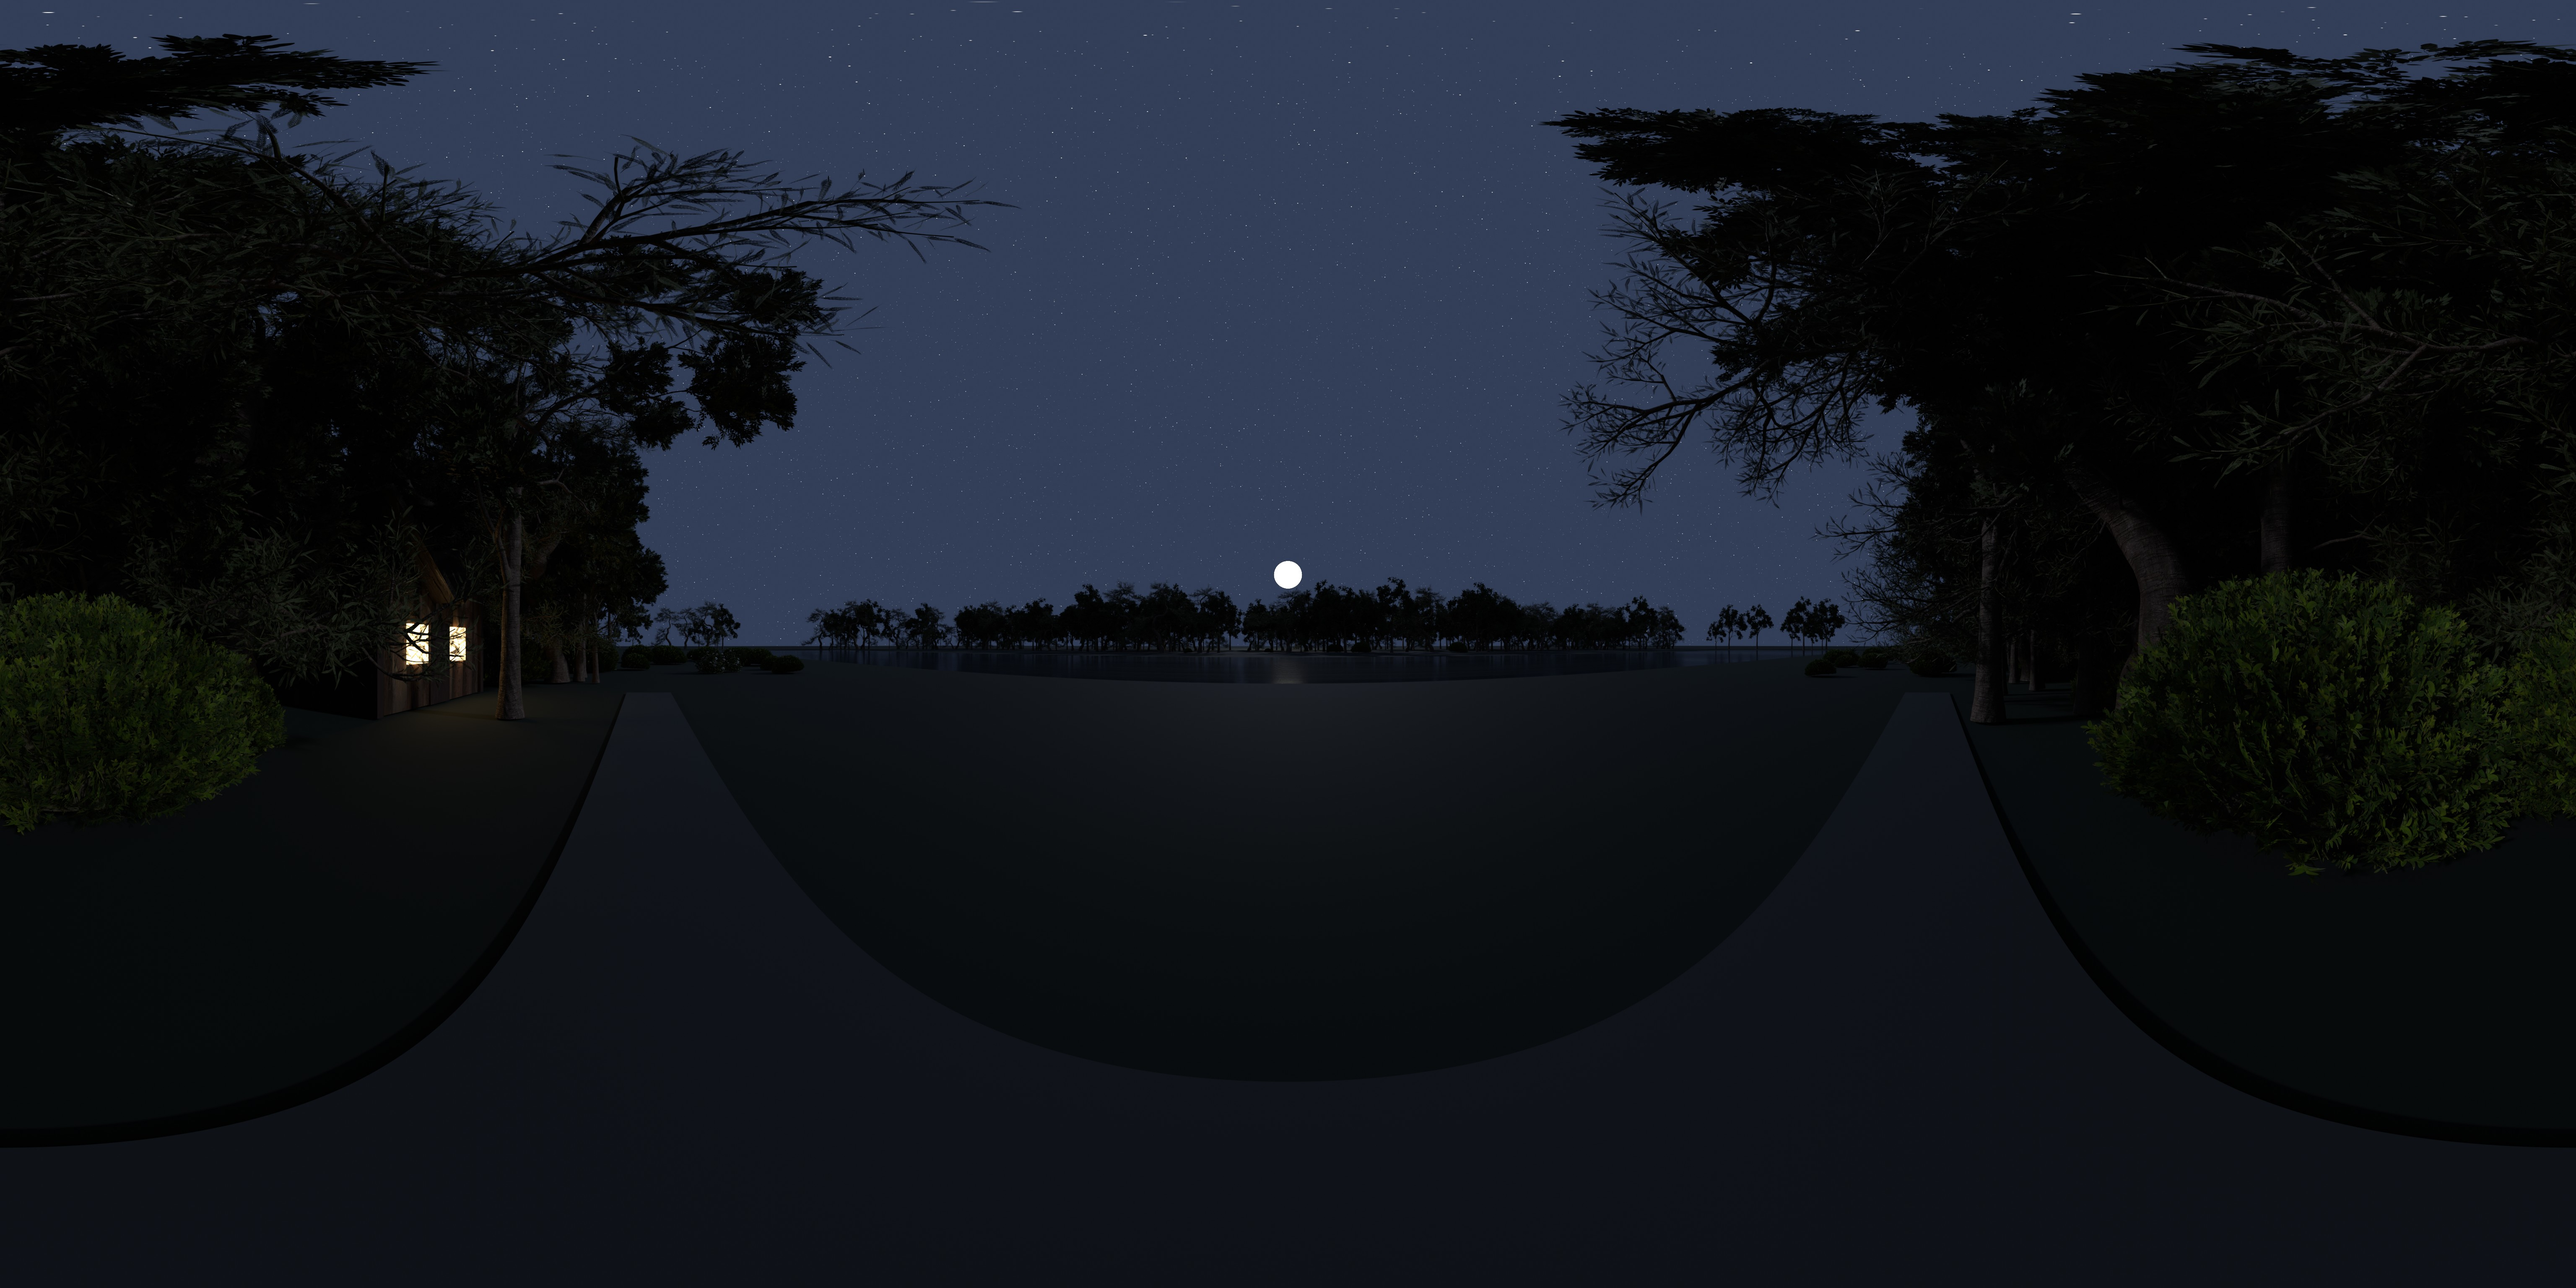
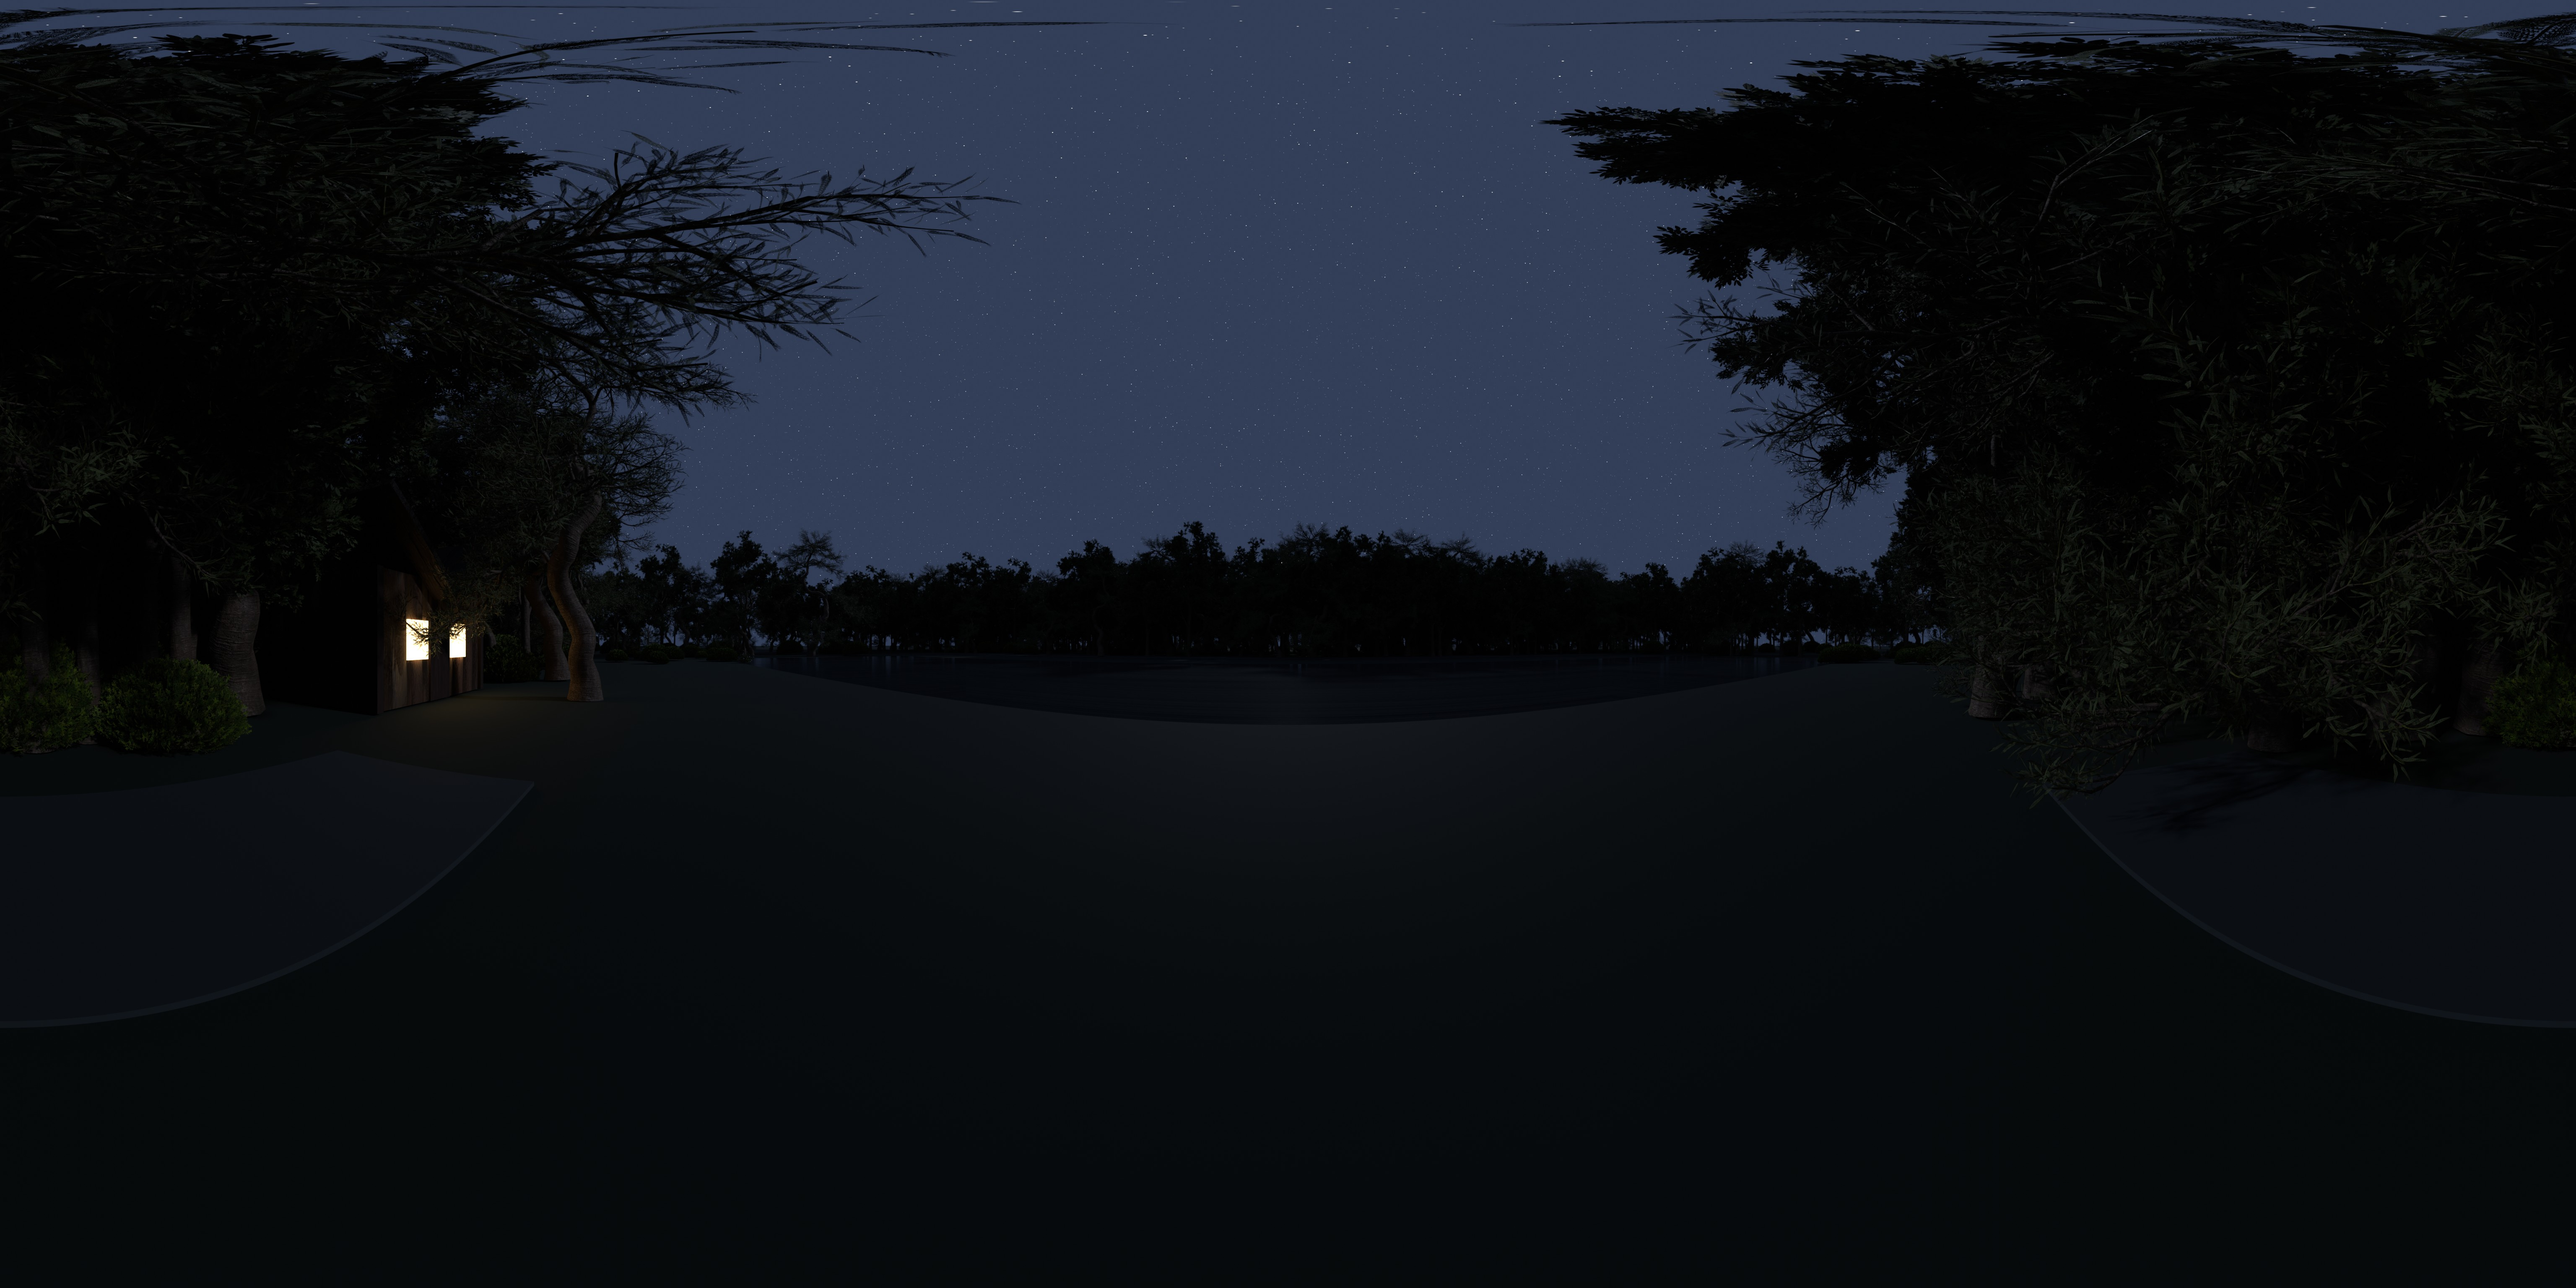
feat(cabin): 外の湖を森に囲まれた親密な池へ・水面を目の前に
- 広い湖(幅190m)→森に囲まれた池(幅84m,x±42)に縮小し森を近く・濃く
- 水際をカメラ足元まで前進(near edge y=-4),カメラ高1.55→1.45で水面が前景を満たす
- 対岸の森を近く(y70→45)高く濃く,額縁の高木を手前左右に追加,岸を苔色に
- カメラ直下の岩を撤去し真下を水面に(目の前が水面)
- stillカメラを引き水平寄りに再構図,still専用レンダモード追加
- night/day/still 全再レンダ(6144x3072)

diff --git a/_blender/cabin_outside_360.py b/_blender/cabin_outside_360.py
@@ -195,7 +195,7 @@ MAT = {
     'chimney':   make_wood('m_chimney',   'BlocksB', 0.30, (0.55, 0.50, 0.44)),
     'win':       make_emissive('m_win', (1.0, 0.62, 0.26), 5.0),
     'ground':    make_solid('m_ground', (0.10, 0.13, 0.07) if DAY else (0.020, 0.026, 0.018), 0.95),
-    'shore':     make_solid('m_shore',  (0.30, 0.27, 0.20) if DAY else (0.05, 0.06, 0.06), 0.9),
+    'shore':     make_solid('m_shore',  (0.14, 0.15, 0.10) if DAY else (0.04, 0.05, 0.05), 0.92),
     'lakebed':   make_solid('m_lakebed', (0.02, 0.03, 0.035) if DAY else (0.02, 0.03, 0.03), 0.95),
     'rock':      make_solid('m_rock',   (0.20, 0.20, 0.19) if DAY else (0.012, 0.015, 0.020), 0.85),
     'water':     make_water(),
@@ -221,14 +221,15 @@ def box(name, sx, sy, sz, loc, mat, rot=(0,0,0)):
     o = bpy.context.active_object; o.name = name; o.scale = (sx, sy, sz)
     o.data.materials.append(mat); return o
 
-# ---- ground + clear lake (water fills the whole view in front, +Y) ----
+# ---- ground + intimate forest pond (water laps right at your feet, wraps past you) ----
 box('Ground', 600, 600, 0.1, (0, 0, -0.10), MAT['ground'])
-box('LakeBed', 320, 220, 0.05, (0, 33, -0.42), MAT['lakebed'])     # bottom seen through clear water
-bpy.ops.mesh.primitive_plane_add(size=1, location=(0, 33, -0.05))
-lake = bpy.context.active_object; lake.name = 'Lake'; lake.scale = (190, 33, 1)   # y≈0..66, x±95: broad lake, dry far bank
+box('LakeBed', 200, 130, 0.05, (0, 19, -0.42), MAT['lakebed'])     # bottom seen through clear water
+bpy.ops.mesh.primitive_plane_add(size=1, location=(0, 19, -0.05))
+lake = bpy.context.active_object; lake.name = 'Lake'; lake.scale = (84, 23, 1)   # y≈-4..42, x±42: a forest pond hugged by trees; near edge wraps behind the camera
 lake.data.materials.append(MAT['water'])
-box('ShoreStrip', 26, 1.4, 0.05, (0, 0.15, -0.02), MAT['shore'])   # the thin bit of shore you stand on
-box('FarBank', 240, 8, 0.08, (0, 70, -0.06), MAT['shore'])         # the far bank the treeline stands on
+# you stand on a small rock at the very lip — water in front of, beside and below you
+box('ShoreStrip', 8, 2.6, 0.05, (0, -2.4, -0.02), MAT['shore'])    # the small mossy bank just behind you; in front and below is open water
+box('FarBank', 130, 8, 0.08, (0, 45, -0.06), MAT['shore'])         # the near far-bank the treeline stands on
 
 # ---- the cabin you came from: a log cabin nestled at the forest edge behind-left ----
 CABIN = (-9.5, -7.5)        # turn around from the lake and it's there, among the trees
@@ -250,8 +251,8 @@ box('Chimney', 0.85, 0.85, ch+1.6, (CABIN[0]-cw/2-0.35, CABIN[1], (ch+1.6)/2), M
 
 # ---- the forest: real trees + shrubs ringing the lake; open water fills the whole front ----
 def in_water(x, y):
-    # the lake footprint: keep all trees/shrubs out of the water; the far bank is ~y=68
-    return (-2.0 < y < 69) and (abs(x) < 96)
+    # the pond footprint: keep all trees/shrubs out of the water; the far bank is ~y=44
+    return (-5.0 < y < 43) and (abs(x) < 44)
 def near_cabin(x, y):
     if abs(x - CABIN[0]) < 5.0 and abs(y - CABIN[1]) < 5.0: return True
     # keep a clear sightline (a little path) from the shore to the cabin so it's always visible
@@ -262,12 +263,12 @@ def near_cabin(x, y):
         if (x-px)**2 + (y-py)**2 < 6.25: return True
     return False
 random.seed(5); nT = 0
-for i in range(700):
-    a = random.uniform(0, math.tau); r = 8 + (random.random()**1.25) * 122
+for i in range(880):
+    a = random.uniform(0, math.tau); r = 6 + (random.random()**1.2) * 116
     x, y = math.cos(a)*r, math.sin(a)*r
     if in_water(x, y) or near_cabin(x, y): continue
     place(random.choice(tree_datas), (x, y, 0.0), random.uniform(0, math.tau),
-          random.uniform(7, 16) * (1.0 - 0.14*random.random()), 0.04); nT += 1
+          random.uniform(8, 17) * (1.0 - 0.12*random.random()), 0.04); nT += 1
 print(f'[forest] {nT} trees', flush=True)
 # extra-dense deep forest behind you (-Y hemisphere): turn from the lake into thick woods
 for i in range(360):
@@ -276,11 +277,19 @@ for i in range(360):
     if near_cabin(x, y): continue
     place(random.choice(tree_datas), (x, y, 0.0), random.uniform(0, math.tau),
           random.uniform(8, 18) * (1.0 - 0.12*random.random()), 0.04)
-# thicken the far treeline across the lake (a deep band, richly reflected)
-for i in range(200):
-    x = random.uniform(-115, 115); y = random.uniform(70, 124)
+# thicken the far treeline across the pond — close, tall and dense so the forest walls the water in
+for i in range(340):
+    x = random.uniform(-90, 90); y = random.uniform(43, 96)
     place(random.choice(tree_datas), (x, y, 0.0), random.uniform(0, math.tau),
-          random.uniform(7, 14), 0.04)
+          random.uniform(9, 17), 0.04)
+# near framing trees: a few tall trunks just beside/behind you, leaning over the shore
+# so the view reads as a clearing deep inside the woods (canopy at the top corners)
+for sx in (-1, 1):
+    for k in range(3):
+        fx = sx * random.uniform(5.5, 12.0); fy = random.uniform(-8.0, -4.5)
+        if near_cabin(fx, fy): continue
+        place(random.choice(tree_datas), (fx, fy, 0.0), random.uniform(0, math.tau),
+              random.uniform(15, 22), 0.05)
 for i in range(440):
     a = random.uniform(0, math.tau); r = 4 + (random.random()**1.1) * 74
     x, y = math.cos(a)*r, math.sin(a)*r
@@ -288,7 +297,7 @@ for i in range(440):
     place(random.choice(shrub_datas), (x, y, 0.0), random.uniform(0, math.tau), random.uniform(0.8, 2.4), 0.1)
 # reeds tuft the shore EDGES only (left/right), never the open water in front of you
 for i in range(48):
-    side = random.choice((-1, 1)); x = side * random.uniform(19, 44); y = random.uniform(-1.0, 9.0)
+    side = random.choice((-1, 1)); x = side * random.uniform(30, 46); y = random.uniform(-3.0, 8.0)
     place(random.choice(shrub_datas), (x, y, 0.0), random.uniform(0, math.tau), random.uniform(0.6, 1.6), 0.12)
 
 # ---- key light ----
@@ -314,11 +323,11 @@ pd = bpy.data.cameras.new('Pano'); pd.type = 'PANO'
 try: pd.cycles.panorama_type = 'EQUIRECTANGULAR'
 except Exception: pass
 cam = bpy.data.objects.new('Pano', pd); coll.objects.link(cam)
-cam.location = (0, 0, 1.55); cam.rotation_euler = (math.radians(90), 0, 0)   # at the shore, facing the lake
+cam.location = (0, 0, 1.45); cam.rotation_euler = (math.radians(90), 0, 0)   # right at the waterline, low, so the pond fills the foreground below you
 
 stilld = bpy.data.cameras.new('Still'); stilld.lens = 26
 still = bpy.data.objects.new('Still', stilld); coll.objects.link(still)
-still.location = (0, 0.4, 1.7); still.rotation_euler = (math.radians(86), 0, math.radians(6))
+still.location = (0, 1.6, 1.8); still.rotation_euler = (math.radians(87), 0, math.radians(3))   # stand back a touch, near-horizontal: pond → far treeline → stars, water as a calm foreground mirror
 
 _GPU = setup_gpu()
 cy = scene.cycles
@@ -341,6 +350,9 @@ if MODE == 'final':
     render_to(cam, os.path.join(OUT, outname), 6144, 3072, 768)
     if not DAY: render_to(still, os.path.join(OUT, 'cabin-outside-still.jpg'), 2560, 1440, 640)
     print('=== DONE final', flush=True)
+elif MODE == 'still':
+    render_to(still, os.path.join(OUT, 'cabin-outside-still.jpg'), 2560, 1440, 640)
+    print('=== DONE still', flush=True)
 elif MODE == 'pano':
     render_to(cam, r'C:\tmp\outside_pano_test.jpg', 3072, 1536, 256)
     print('=== DONE pano', flush=True)
